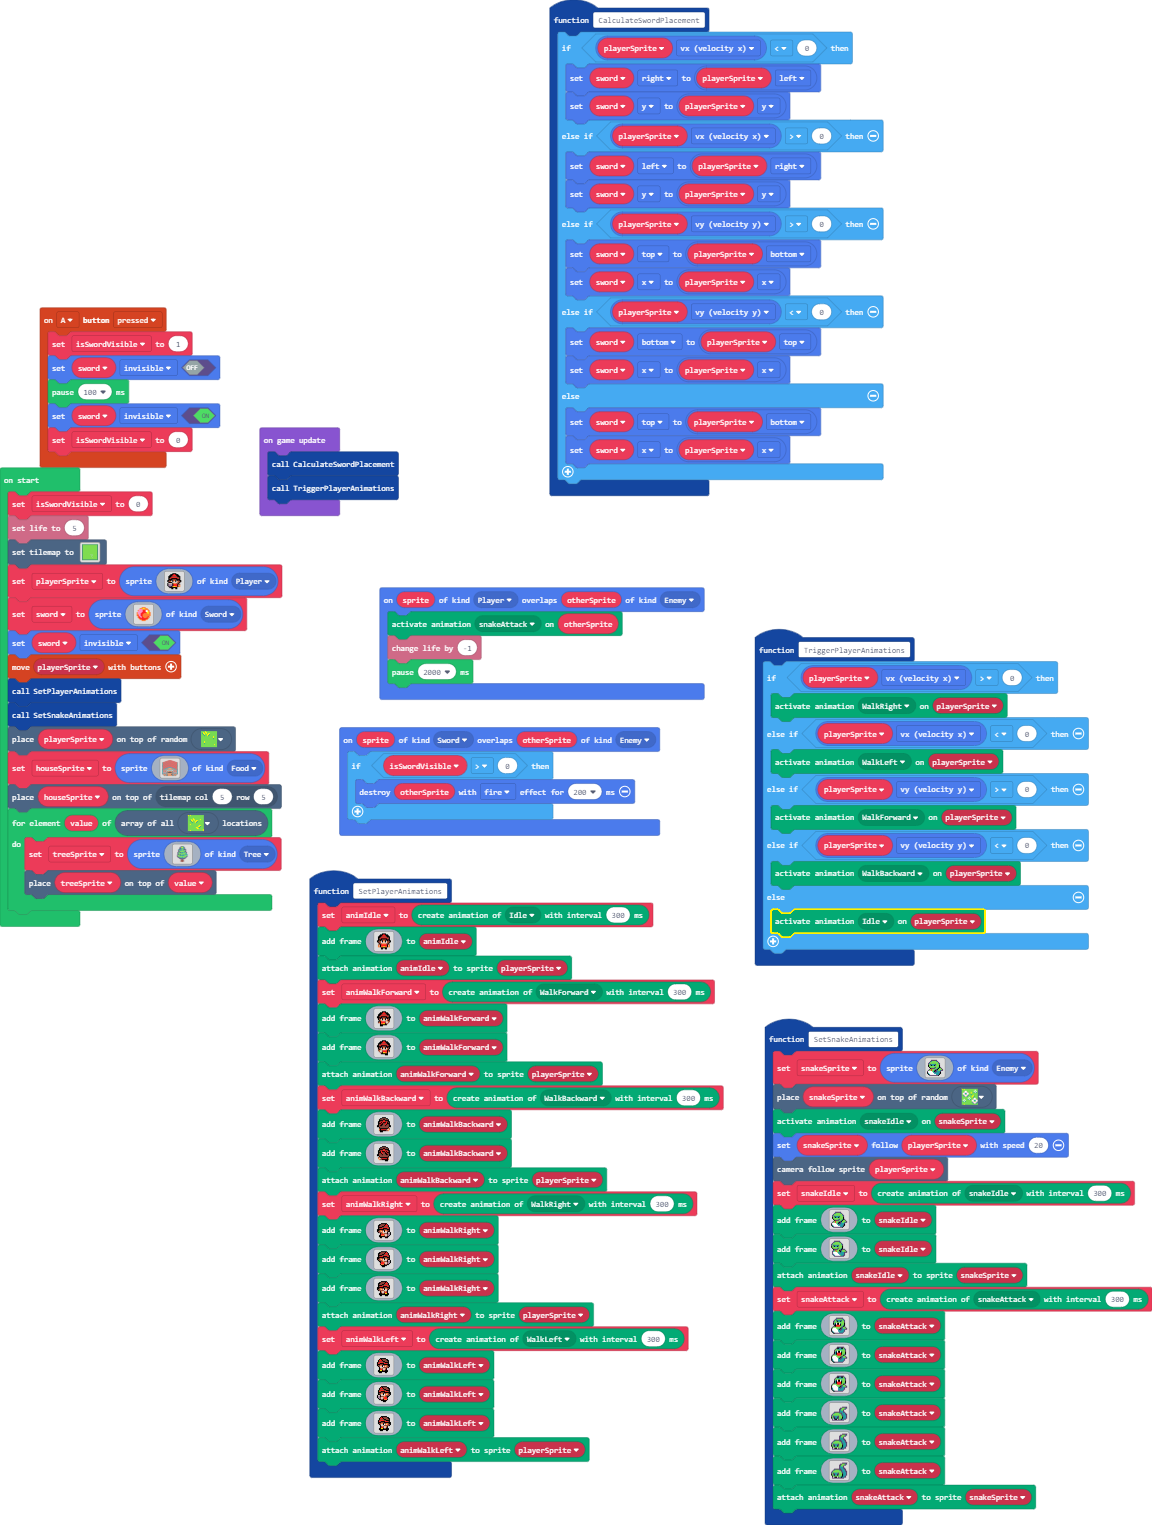
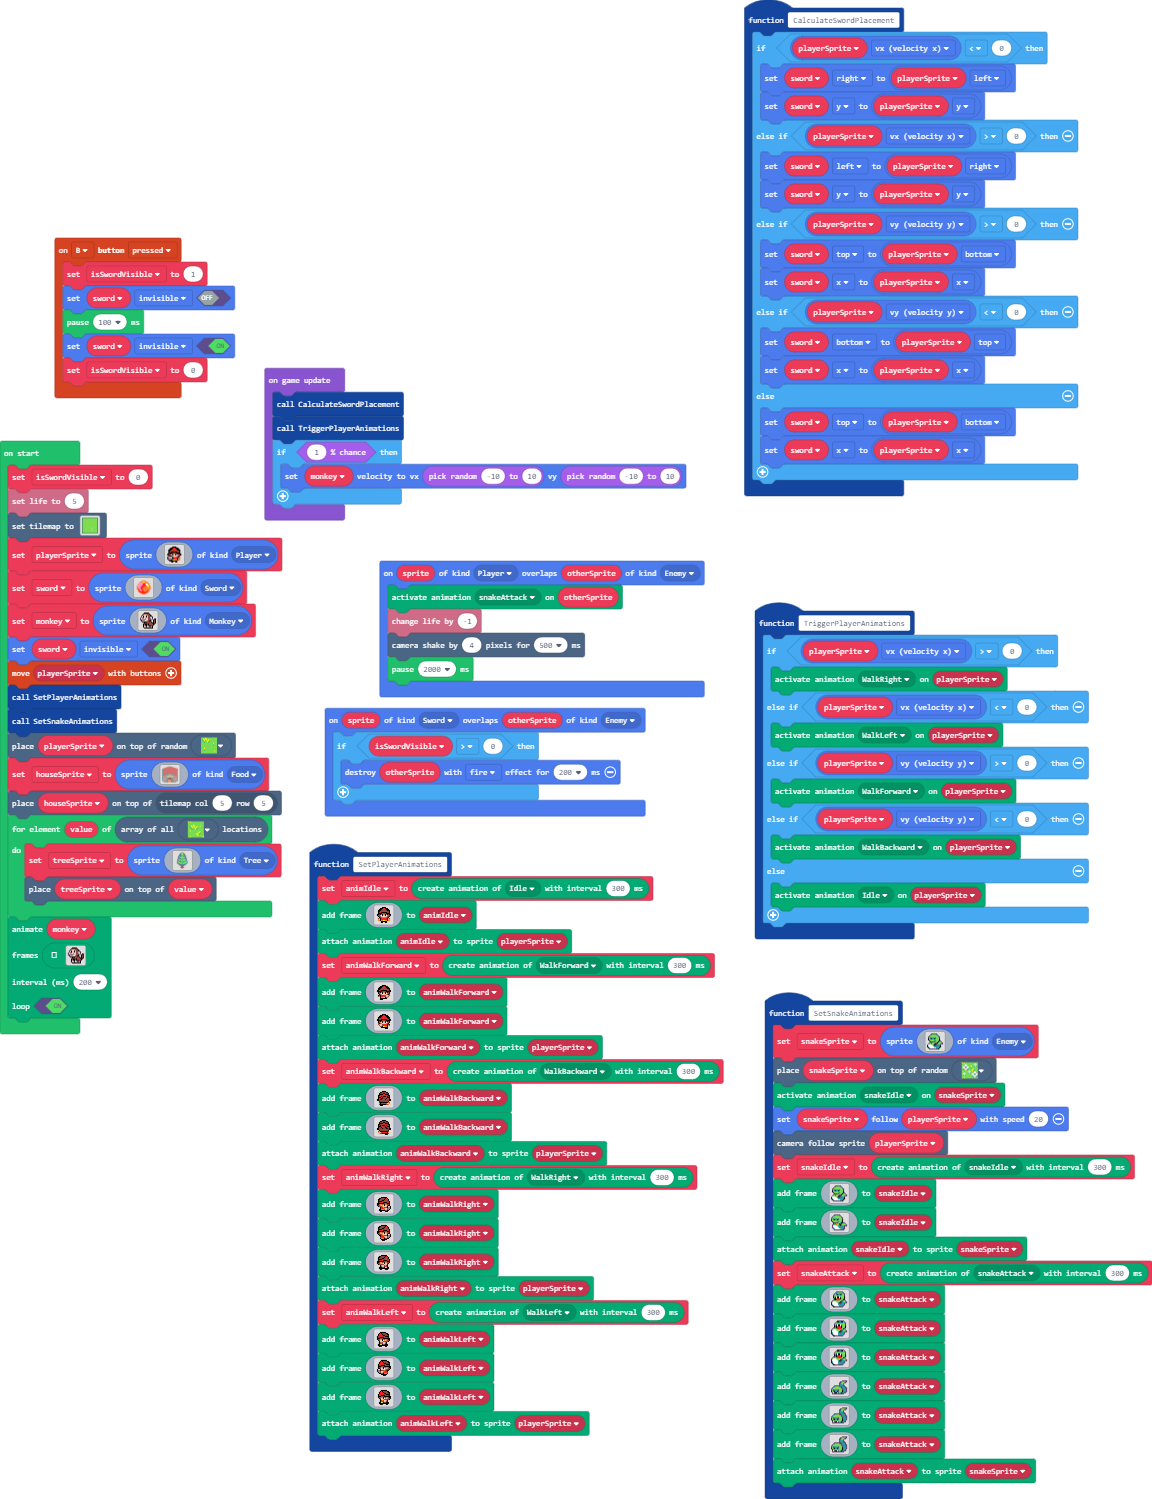
add monkey

diff --git a/main.ts b/main.ts
@@ -13,6 +13,7 @@ enum ActionKind {
 namespace SpriteKind {
     export const Tree = SpriteKind.create()
     export const Sword = SpriteKind.create()
+    export const Monkey = SpriteKind.create()
 }
 namespace myTiles {
     //% blockIdentity=images._tile
@@ -245,6 +246,13 @@ function SetPlayerAnimations () {
 `)
     animation.attachAnimation(playerSprite, animWalkLeft)
 }
+controller.B.onEvent(ControllerButtonEvent.Pressed, function () {
+    isSwordVisible = 1
+    sword.setFlag(SpriteFlag.Invisible, false)
+    pause(100)
+    sword.setFlag(SpriteFlag.Invisible, true)
+    isSwordVisible = 0
+})
 function SetSnakeAnimations () {
     snakeSprite = sprites.create(img`
 . . . . c c c c c c . . . . . . 
@@ -422,16 +430,10 @@ sprites.onOverlap(SpriteKind.Sword, SpriteKind.Enemy, function (sprite, otherSpr
         otherSprite.destroy(effects.fire, 200)
     }
 })
-controller.A.onEvent(ControllerButtonEvent.Pressed, function () {
-    isSwordVisible = 1
-    sword.setFlag(SpriteFlag.Invisible, false)
-    pause(100)
-    sword.setFlag(SpriteFlag.Invisible, true)
-    isSwordVisible = 0
-})
 sprites.onOverlap(SpriteKind.Player, SpriteKind.Enemy, function (sprite, otherSprite) {
     animation.setAction(otherSprite, ActionKind.snakeAttack)
     info.changeLifeBy(-1)
+    scene.cameraShake(4, 500)
     pause(2000)
 })
 function CalculateSwordPlacement () {
@@ -538,6 +540,24 @@ sword = sprites.create(img`
 . . . . . . 4 4 4 4 . . . . . . 
 . . . . . . . . . . . . . . . . 
 `, SpriteKind.Sword)
+let monkey = sprites.create(img`
+. . . . f f f f f . . . . . . . 
+. . . f e e e e e f . . . . . . 
+. . f d d d d e e e f . . . . . 
+. c d f d d f d e e f f . . . . 
+. c d f d d f d e e d d f . . . 
+c d e e d d d d e e b d c . . . 
+c d d d d c d d e e b d c . f f 
+c c c c c d d d e e f c . f e f 
+. f d d d d d e e f f . . f e f 
+. . f f f f f e e e e f . f e f 
+. . . . f e e e e e e e f f e f 
+. . . f e f f e f e e e e f f . 
+. . . f e f f e f e e e e f . . 
+. . . f d b f d b f f e f . . . 
+. . . f d d c d d b b d f . . . 
+. . . . f f f f f f f f f . . . 
+`, SpriteKind.Monkey)
 sword.setFlag(SpriteFlag.Invisible, true)
 controller.moveSprite(playerSprite)
 SetPlayerAnimations()
@@ -623,7 +643,84 @@ c c 7 7 7 7 7 7 7 7 7 7 7 7 6 c
 `, SpriteKind.Tree)
     tiles.placeOnTile(treeSprite, value)
 }
+animation.runImageAnimation(
+monkey,
+[img`
+. . . . f f f f f . . . . . . . 
+. . . f e e e e e f . . . . . . 
+. . f d d d d e e e f . . . . . 
+. c d f d d f d e e f f . . . . 
+. c d f d d f d e e d d f . . . 
+c d e e d d d d e e b d c . . . 
+c d d d d c d d e e b d c . f f 
+c c c c c d d d e e f c . f e f 
+. f d d d d d e e f f . . f e f 
+. . f f f f f e e e e f . f e f 
+. . . . f e e e e e e e f f e f 
+. . . f e f f e f e e e e f f . 
+. . . f e f f e f e e e e f . . 
+. . . f d b f d b f f e f . . . 
+. . . f d d c d d b b d f . . . 
+. . . . f f f f f f f f f . . . 
+`,img`
+. . . . f f f f f . . . . . . . 
+. . . f e e e e e f . . . . . . 
+. . f d d d d e e e f . . . . . 
+. c d f d d f d e e f . . . . . 
+. c d f d d f d e e f f . . . . 
+c d e e d d d d e e d d f . . . 
+c d d d d c d d e e b d c . . . 
+c c c c c d d e e e b d c . f f 
+. f d d d d e e e f f c . f e f 
+. f f f f f f e e e e f . f e f 
+. f f f f e e e e e e e f f e f 
+f d d f d d f e f e e e e f f . 
+f d b f d b f e f e e e e f . . 
+f f f f f f f f f f f f e f . . 
+. . . . . . . . . f c d d f . . 
+. . . . . . . . . . f f f f . . 
+`,img`
+. . . . f f f f f . . . . . . . 
+. . . f e e e e e f . . . . . . 
+. . f d d d d e e e f f . . . . 
+. c d d d d d d e e d d f . . . 
+. c d f d d f d e e b d c . . . 
+c d d f d d f d e e b d c . f f 
+c d e e d d d d e e f c . f e f 
+c d d d d c d e e e f . . f e f 
+. f c c c d e e e f f . . f e f 
+. . f f f f f e e e e f . f e f 
+. . . . f e e e e e e e f f f . 
+. . f f e f e e f e e e e f . . 
+. f e f f e e f f f e e e f . . 
+f d d b d d c f f f f f f b f . 
+f d d c d d d f . . f c d d f . 
+. f f f f f f f . . . f f f . . 
+`,img`
+. . . . f f f f f . . . . . . . 
+. . . f e e e e e f f f . . . . 
+. . f d d d e e e e d d f . . . 
+. c d d d d d e e e b d c . . . 
+. c d d d d d d e e b d c . . . 
+c d d f d d f d e e f c . f f . 
+c d d f d d f d e e f . . f e f 
+c d e e d d d d e e f . . f e f 
+. f d d d c d e e f f . . f e f 
+. . f f f d e e e e e f . f e f 
+. . . . f e e e e e e e f f f . 
+. . . . f f e e e e e b f f . . 
+. . . f e f f e e c d d f f . . 
+. . f d d b d d c f f f . . . . 
+. . f d d c d d d f f . . . . . 
+. . . f f f f f f f . . . . . . 
+`],
+200,
+true
+)
 game.onUpdate(function () {
     CalculateSwordPlacement()
     TriggerPlayerAnimations()
+    if (Math.percentChance(1)) {
+        monkey.setVelocity(Math.randomRange(-10, 10), Math.randomRange(-10, 10))
+    }
 })
